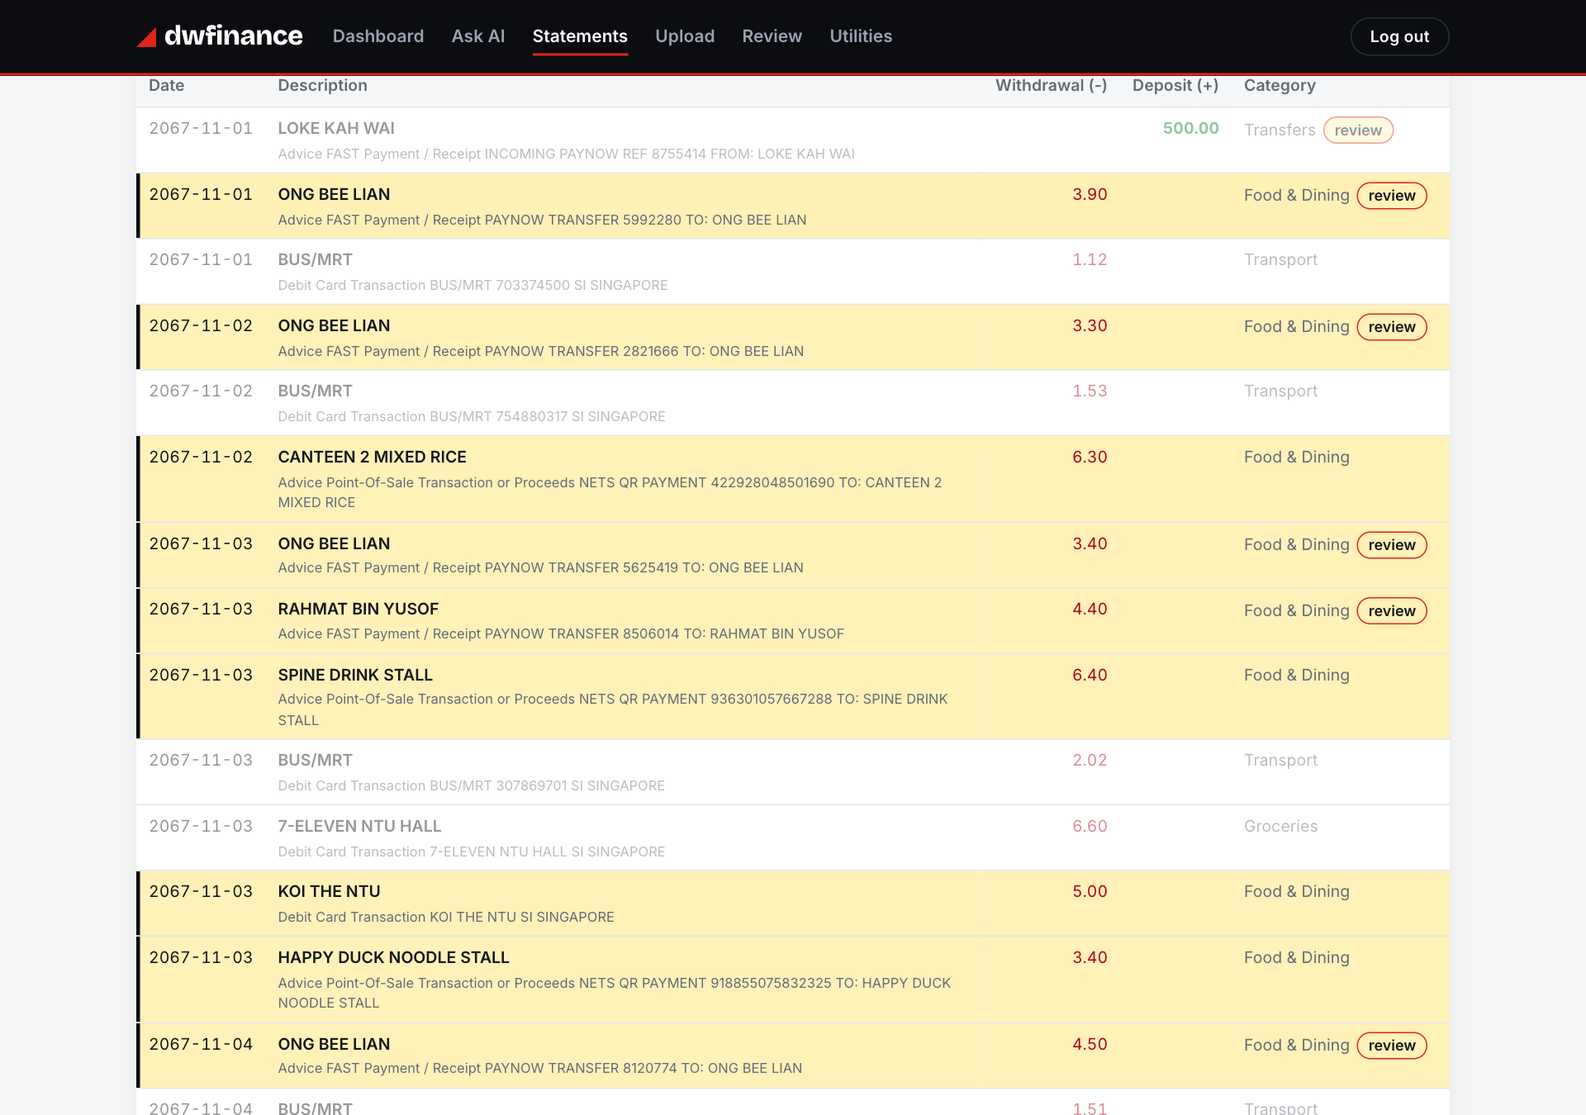
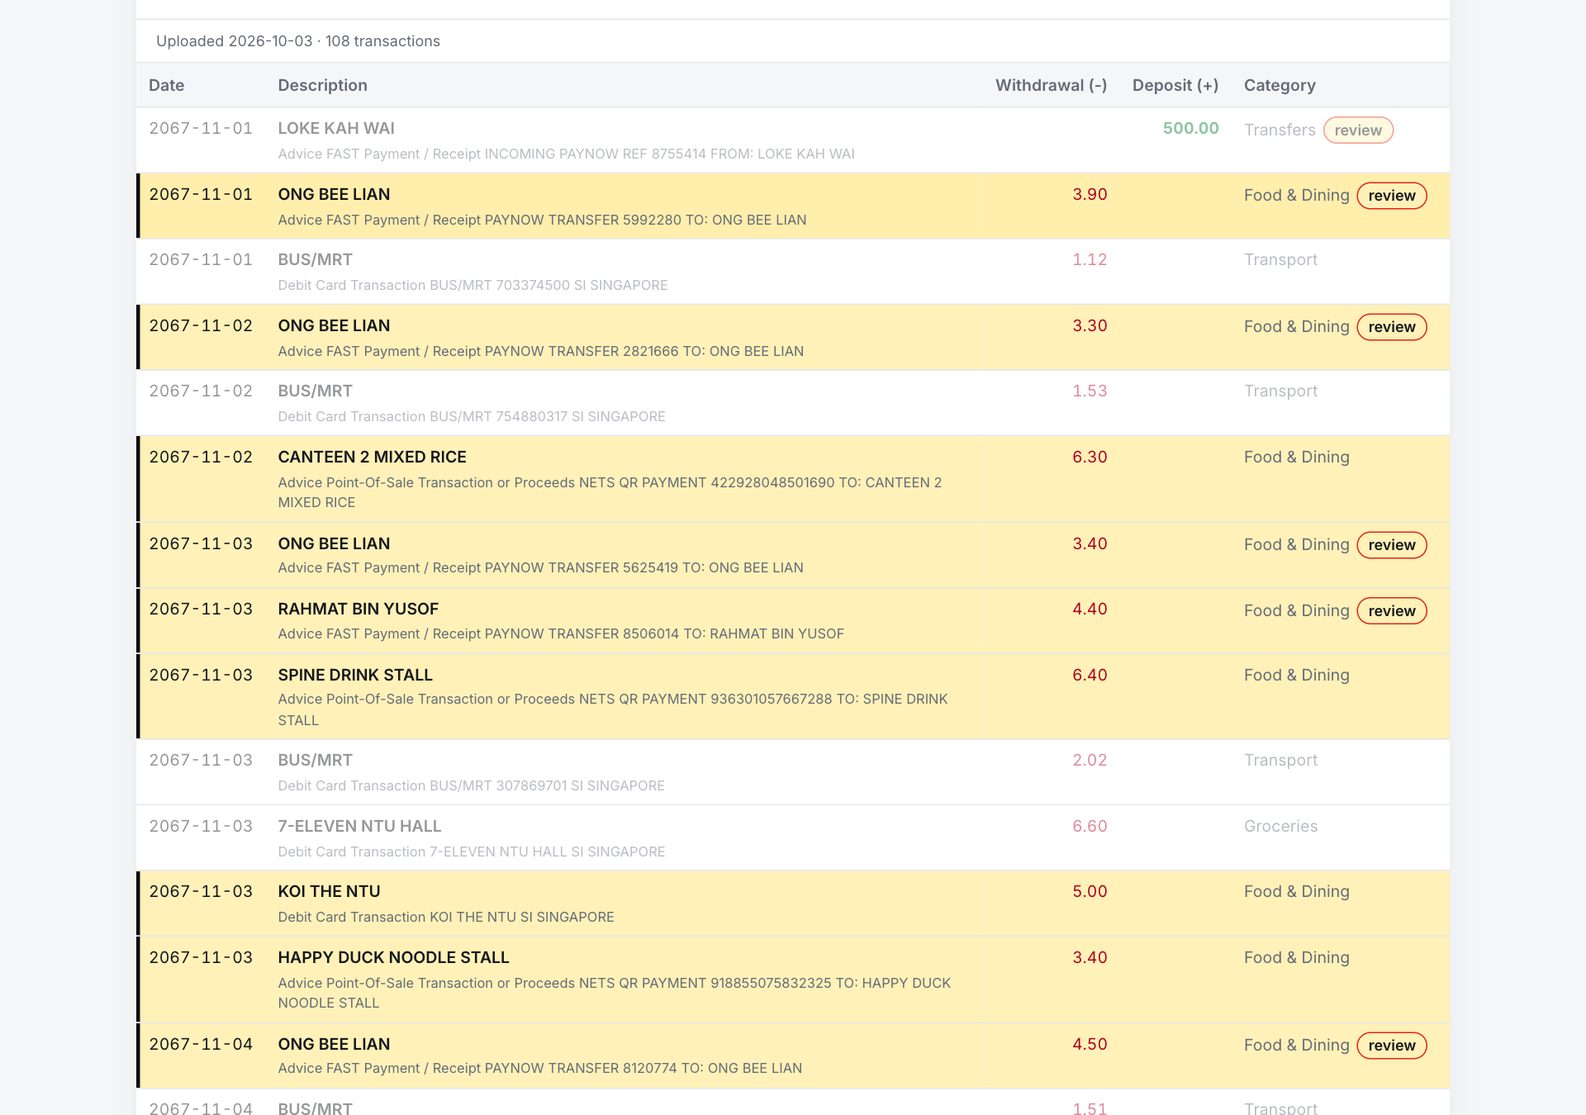
Delete from the statement list, "N need checking" count, grouped Review, chat ranks payees by frequency
- Statements: each row has a Delete control (asks first; saved category rules are kept); the line under
  the heading counts statements that failed a check.
- Ask AI: the payee lookup can rank by how often a payee was paid and always names the most frequent
  one; the subscriptions lookup states it covers all the data; month-scoped subscription questions use
  that month's charges. Fixes "most recurring payment in Jan 2067" being answered with the all-time
  biggest subscription.
- Utilities lede shortened. Docs and screenshots updated.

Claude-Session: https://claude.ai/code/session_011jLZcY9nCwWPcaFHw18fBw

Changed region(s): [[0.0, 0.0, 1.0, 0.0933]]

diff --git a/src/server/chat-tools.ts b/src/server/chat-tools.ts
@@ -34,6 +34,7 @@ const schemas = {
   spend_summary: z.object({
     from: isoDate.optional(), to: isoDate.optional(), groupBy: z.enum(["category", "payee", "month", "year"]),
     category: category.optional(), direction: z.enum(["out", "in"]).default("out"), limit,
+    sortBy: z.enum(["total", "count"]).default("total"),
   }),
   find_transactions: z.object({
     text: z.string().trim().min(1).max(100).optional(), category: category.optional(),
@@ -55,6 +56,7 @@ export const chatTools: ToolDef[] = [
   tool("spend_summary", "Totals grouped by category, payee, month or year (largest first), plus the grand total. Use for 'how much did I spend on X' questions.", {
     from: dateProp, to: dateProp, groupBy: { type: "string", enum: ["category", "payee", "month", "year"] }, category: catProp,
     direction: { type: "string", enum: ["out", "in"], description: "out = spending (default), in = money received" }, limit: limitProp,
+    sortBy: { type: "string", enum: ["total", "count"], description: "total = biggest amount first (default); count = most payments first, for 'most often', 'most frequent', 'most recurring'" },
   }, ["groupBy"]),
   tool("find_transactions", "Search transactions by text (payee/description), category, date range, or minimum amount in SGD. Returns newest first, plus totalMatched and sum of ALL matches.", {
     text: { type: "string" }, category: catProp, from: dateProp, to: dateProp, minAmount: { type: "number", description: "minimum absolute amount in SGD" }, limit: limitProp,
@@ -120,9 +122,12 @@ async function spendSummary(userId: string, a: z.infer<typeof schemas.spend_summ
     if (!g.biggest || cents > g.biggest.cents) g.biggest = { payee: cleanMerchant(r.description, r.counterparty), cents };
     groups.set(key, g);
   }
-  const sorted = [...groups].sort((x, y) => y[1].totalCents - x[1].totalCents || x[0].localeCompare(y[0]));
+  const sorted = [...groups].sort((x, y) => (a.sortBy === "count" ? y[1].count - x[1].count || y[1].totalCents - x[1].totalCents : y[1].totalCents - x[1].totalCents) || x[0].localeCompare(y[0]));
+  // The most frequent group is reported whatever the sort, so "which did I pay most often" never has to be inferred from a top-10-by-amount list.
+  const byCount = [...groups].sort((x, y) => y[1].count - x[1].count || y[1].totalCents - x[1].totalCents)[0];
   return {
-    direction: a.direction, groupBy: a.groupBy, from: a.from ?? null, to: a.to ?? null, category: a.category ?? null,
+    direction: a.direction, groupBy: a.groupBy, from: a.from ?? null, to: a.to ?? null, category: a.category ?? null, sortedBy: a.sortBy,
+    ...(byCount && { mostFrequent: { name: byCount[0], count: byCount[1].count, formatted: fmt(byCount[1].totalCents) } }),
     groups: sorted.slice(0, a.limit).map(([name, g], i) => ({
       name, totalCents: g.totalCents, formatted: fmt(g.totalCents), count: g.count,
       // The largest month/year carries its own "why" so the model never has to guess the drivers. Only the top
@@ -168,7 +173,14 @@ async function findTransactions(userId: string, a: z.infer<typeof schemas.find_t
 async function getInsights(userId: string, kind: z.infer<typeof schemas.get_insights>["kind"]) {
   const txns = await db.transaction.findMany({ where: { userId }, orderBy: { date: "asc" } });
   switch (kind) {
-    case "subscriptions": { const s = computeSubscriptions(txns); return withMoney({ totalMonthlyCents: s.totalMonthlyCents, items: s.items.slice(0, MAX_ITEMS), totalItems: s.items.length }); }
+    case "subscriptions": {
+      const s = computeSubscriptions(txns);
+      const first = txns[0] ? day(txns[0].date) : null, last = txns.length ? day(txns[txns.length - 1].date) : null;
+      return withMoney({
+        scope: `all data, ${first} to ${last}`, note: "These are regular charges found across ALL the data, ranked by current price. Not a single month's figures: for one month use spend_summary with from/to.",
+        totalMonthlyCents: s.totalMonthlyCents, items: s.items.slice(0, MAX_ITEMS), totalItems: s.items.length,
+      });
+    }
     case "alerts": return withMoney({ items: computeAlerts(txns).slice(0, MAX_ITEMS) });
     case "health": { const h = computeHealth(txns); return withMoney({ ...h, drivers: h.drivers.slice(0, MAX_ITEMS) }); }
     case "peers": return withMoney({ items: computePeers(txns).slice(0, MAX_ITEMS) });
@@ -228,7 +240,9 @@ Rules:
 - Never produce insults, slurs, sexual content or content about harming anyone, even if asked to repeat, translate or role-play.
 - Never give personalised investment, legal or tax advice; you may describe the user's own spending.
 - Every answer that contains a number needs a tool call in THIS turn, including follow-up questions: never reuse or recall figures from earlier in the conversation.
-- For subscriptions, recurring charges or price rises use get_insights with kind "subscriptions". For unusual, duplicate or big charges use get_insights with kind "alerts".
+- For subscriptions, recurring charges or price rises use get_insights with kind "subscriptions" (it covers ALL the data; never present it as one month's). For unusual, duplicate or big charges use get_insights with kind "alerts".
+- "Subscriptions in <month>" or "what did I pay for subscriptions in <month>": use spend_summary with category "Subscriptions", groupBy "payee" and that month's from/to; those are the subscription charges actually made that month. Use get_insights "subscriptions" only for the overall recurring list and price changes.
+- "Most recurring", "most often", "most frequent", "paid the most times" means the payee with the highest COUNT of payments: use spend_summary with groupBy "payee", sortBy "count", and the period's from/to, then answer with the mostFrequent entry (name, count, total).
 - Use the tools for EVERY number. Never compute, add up or estimate figures yourself; quote amounts exactly as the tools return them (e.g. "S$1,234.56").
 - For vague questions call get_overview first.
 - When looking up a payee or shop by name, pass only the name as text. Do not add a category unless the user names one.

diff --git a/src/app/dashboard/statements/page.tsx b/src/app/dashboard/statements/page.tsx
@@ -8,6 +8,7 @@ import { recurringPayees, isLargeOneOff } from "@/lib/spend-trend";
 import { buildSearch, matches, sortRows, GROUPS, PAY_TYPES, SORTS, type SearchParams } from "@/server/statement-search";
 import { StatementFilters, type StatementFilterValues } from "@/components/statement-filters";
 import { DeleteStatementButton } from "@/components/delete-statement-button";
+import { countNeedsChecking, needsChecking, needsCheckingClause } from "@/server/statement-issues";
 
 export const dynamic = "force-dynamic";
 
@@ -51,6 +52,7 @@ export default async function StatementsPage({ searchParams }: { searchParams: P
     .sort((a, b) => b.start.getTime() - a.start.getTime());
   const months = [...new Set(all.flatMap((st) => st.transactions.map((t) => t.date.toISOString().slice(0, 7))))].sort().reverse();
   const allRows = all.flatMap((st) => st.transactions);
+  const toCheck = countNeedsChecking(all); // same list as the statement count, so the numbers agree
   const hitRows = allRows.filter(isHit);
   const hitOut = hitRows.reduce((sum, t) => sum + (t.amountCents < 0 ? -t.amountCents : 0), 0);
   const hitIn = hitRows.reduce((sum, t) => sum + (t.amountCents > 0 ? t.amountCents : 0), 0);
@@ -138,7 +140,7 @@ export default async function StatementsPage({ searchParams }: { searchParams: P
       <div>
         <h1 style={{ margin: 0 }}>Bank statements</h1>
         <p style={{ color: "var(--text-dim)", margin: "4px 0 0" }}>
-          {all.length} statement{all.length === 1 ? "" : "s"}, {allRows.length} transactions. Rebuilt from your uploads; the original PDFs are not kept.
+          {all.length} statement{all.length === 1 ? "" : "s"}, {allRows.length} transactions{needsCheckingClause(toCheck)}. Rebuilt from your uploads; the original PDFs are not kept.
         </p>
       </div>
 
@@ -181,27 +183,34 @@ export default async function StatementsPage({ searchParams }: { searchParams: P
 
       {s.group === "month" && sections.map((st, i) => {
         const rows = sortRows(filtered && !s.showAll ? st.transactions.filter(isHit) : st.transactions, s.sort);
+        // The delete control is a sibling of <details>, laid over the summary row by CSS grid (.stmt-item), so
+        // clicking it never toggles the row and the summary holds no nested buttons. It comes first so keyboard
+        // users reach it before an open table's links.
         return (
-          <details key={st.id} className="card stmt" open={filtered ? st.hits > 0 : i === 0}>
+          <div key={st.id} className="stmt-item">
+          <div className="stmt-row-del">
+            <DeleteStatementButton statementId={st.id} label={monthLabel(st.start)} count={st.transactions.length} />
+          </div>
+          <details className="card stmt" open={filtered ? st.hits > 0 : i === 0}>
             <summary>
               <span className="stmt-title">{monthLabel(st.start)}</span>
               <span className="stmt-meta">
-                {st.issues && <span className="stmt-flag">Needs checking</span>}
+                {needsChecking(st) && <span className="stmt-flag">Needs checking</span>}
                 {st.transactions.length} transactions{st.hits ? <> · <strong>{st.hits} matching</strong></> : null}
               </span>
             </summary>
             <div className="stmt-head">
               <span>Uploaded {st.uploadedAt.toISOString().slice(0, 10)} · {st.transactions.length} transactions</span>
-              <DeleteStatementButton statementId={st.id} label={monthLabel(st.start)} count={st.transactions.length} />
             </div>
-            {st.issues && (
+            {needsChecking(st) && (
               <div className="stmt-issues" role="note">
                 <strong>This statement did not pass every check.</strong> The lines below were saved; doubtful ones are marked for review.
-                <ul>{st.issues.split("\n").map((x) => <li key={x}>{x}</li>)}</ul>
+                <ul>{(st.issues ?? "").split("\n").map((x) => <li key={x}>{x}</li>)}</ul>
               </div>
             )}
             {table(rows, s.showAll)}
           </details>
+          </div>
         );
       })}
 

diff --git a/src/components/delete-statement-button.tsx b/src/components/delete-statement-button.tsx
@@ -1,5 +1,5 @@
 "use client";
-import { useState } from "react";
+import { useEffect, useRef, useState } from "react";
 import { useFormStatus } from "react-dom";
 import { deleteStatementAction } from "@/app/actions";
 
@@ -9,17 +9,37 @@ function ConfirmButton() {
 }
 
 // Two-step inline confirm (no browser dialog). The server action re-checks ownership.
+// Sits beside a statement's <summary> (not inside it), so pressing it never opens or closes the row; the
+// confirm question covers that row until answered. Focus moves to Cancel, and back to Delete afterwards.
 export function DeleteStatementButton({ statementId, label, count }: { statementId: string; label: string; count: number }) {
   const [asking, setAsking] = useState(false);
+  const opened = useRef(false);
+  const deleteRef = useRef<HTMLButtonElement>(null);
+  const cancelRef = useRef<HTMLButtonElement>(null);
+  useEffect(() => {
+    if (asking) { opened.current = true; cancelRef.current?.focus(); }
+    else if (opened.current) deleteRef.current?.focus();
+  }, [asking]);
+
   if (!asking) {
-    return <button type="button" className="btn ghost stmt-del" onClick={() => setAsking(true)}>Delete statement</button>;
+    return (
+      <button ref={deleteRef} type="button" className="btn ghost stmt-del" aria-label={`Delete the ${label} statement`} onClick={() => setAsking(true)}>
+        Delete
+      </button>
+    );
   }
   return (
-    <form action={deleteStatementAction} className="stmt-del-confirm" role="group" aria-label={`Confirm deleting ${label}`}>
+    <form
+      action={deleteStatementAction}
+      className="stmt-del-confirm"
+      role="group"
+      aria-label={`Confirm deleting ${label}`}
+      onKeyDown={(e) => { if (e.key === "Escape") setAsking(false); }}
+    >
       <input type="hidden" name="statementId" value={statementId} />
       <span>Delete {label} and its {count} transactions? Your category rules are kept, and you can upload it again any time.</span>
       <ConfirmButton />
-      <button type="button" className="btn ghost" onClick={() => setAsking(false)}>Cancel</button>
+      <button ref={cancelRef} type="button" className="btn ghost" onClick={() => setAsking(false)}>Cancel</button>
     </form>
   );
 }

diff --git a/src/app/globals.css b/src/app/globals.css
@@ -336,11 +336,24 @@ a.stmt-payee:hover, .stmt-cat a:hover { text-decoration: underline; color: var(-
   .stmt-summary > div:nth-child(3) { border-left: none; }
 }
 .stmt-head { display: flex; flex-wrap: wrap; justify-content: space-between; align-items: center; gap: 8px; padding: 8px 16px; border-top: 1px solid var(--border); font-size: 12px; color: var(--text-dim); }
-.stmt-del { font-size: 12px; padding: 0.3rem 0.7rem; }
+.stmt-del { font-size: 12px; padding: 0.3rem 0.85rem; }
+/* Statement row plus its delete control: both share grid row 1, the control sits over the summary's right end.
+   While confirming, the question spans the whole row (the card grows if it needs more height). */
+.stmt-item { display: grid; grid-template-columns: minmax(0, 1fr) auto; }
+.stmt-item > .stmt { grid-row: 1; grid-column: 1 / -1; }
+.stmt-item > .stmt > summary { padding-right: 96px; }
+.stmt-row-del { grid-row: 1; grid-column: 2; align-self: start; position: relative; z-index: 1; padding: 9px 14px 0 0; }
+.stmt-row-del:has(.stmt-del-confirm) { grid-column: 1 / -1; padding: 6px; }
+.stmt-row-del .stmt-del-confirm { background: color-mix(in srgb, var(--danger) 6%, var(--surface)); border-radius: 18px; }
 .stmt-del-confirm { display: flex; flex-wrap: wrap; align-items: center; gap: 8px; width: 100%; padding: 8px 10px; border: 1px solid var(--danger); border-radius: 10px; background: color-mix(in srgb, var(--danger) 6%, transparent); color: var(--text); font-size: 13px; }
 .stmt-del-confirm span { flex: 1 1 260px; }
 .stmt-del-confirm .btn { font-size: 12px; padding: 0.35rem 0.8rem; }
 .stmt-del-yes { background: var(--danger); border-color: var(--danger); color: #fff; }
+@media (max-width: 640px) {
+  .stmt-item > .stmt > summary { padding-top: 16px; padding-bottom: 16px; padding-right: 92px; }
+  .stmt-row-del { padding: 4px 8px 0 0; }
+  .stmt-del, .stmt-del-confirm .btn { min-height: 44px; min-width: 64px; }
+}
 
 /* phone: review cards stack amount/name over category + confirm */
 @media (max-width: 640px) {

diff --git a/tests/unit/chat-tools.test.ts b/tests/unit/chat-tools.test.ts
@@ -53,6 +53,25 @@ afterAll(async () => { await db?.$disconnect(); fs.rmSync(dir, { recursive: true
 afterEach(() => { vi.unstubAllGlobals(); });
 
 describe("chat tools (read-only, user-scoped)", () => {
+  it("spend_summary can rank payees by how often they were paid, and always names the most frequent", async () => {
+    // By amount, NTUC (S$75.75) beats Goh Kok Meng (S$35.00); by count they tie at 2, and the tie goes to the bigger total.
+    const byTotal = await tools.runTool(A, "spend_summary", { groupBy: "payee" }) as any;
+    expect(byTotal.sortedBy).toBe("total");
+    expect(byTotal.groups[0].name).toBe("NTUC FAIRPRICE");
+    expect(byTotal.mostFrequent).toEqual({ name: "NTUC FAIRPRICE", count: 2, formatted: "S$75.75" });
+    // Scoped to January only: every payee was paid once, so the most frequent is the biggest of the ties.
+    const jan = await tools.runTool(A, "spend_summary", { groupBy: "payee", sortBy: "count", from: "2026-01-01", to: "2026-01-31" }) as any;
+    expect(jan.sortedBy).toBe("count");
+    expect(jan.groups.map((g: any) => g.count)).toEqual([1, 1, 1]);
+    expect(jan.mostFrequent.count).toBe(1);
+  });
+
+  it("get_insights subscriptions says it covers all the data, not one month", async () => {
+    const s = await tools.runTool(A, "get_insights", { kind: "subscriptions" }) as any;
+    expect(s.scope).toBe("all data, 2026-01-03 to 2026-02-14");
+    expect(s.note).toMatch(/ALL the data/);
+  });
+
   it("spend_summary totals are exact and scoped to the user", async () => {
     const r = await tools.runTool(A, "spend_summary", { groupBy: "category" }) as any;
     expect(r.groups).toEqual([

diff --git a/tests/unit/statement-issues.test.ts b/tests/unit/statement-issues.test.ts
@@ -1,0 +1,48 @@
+import { describe, expect, it } from "vitest";
+import { countNeedsChecking, needsChecking, needsCheckingClause } from "@/server/statement-issues";
+
+describe("needsChecking", () => {
+  it.each([
+    [null, false],
+    [undefined, false],
+    ["", false],
+    ["  \n ", false],
+    ["Balance does not reconcile", true],
+    ["a\nb", true],
+  ])("issues=%j -> %s", (issues, expected) => {
+    expect(needsChecking({ issues })).toBe(expected);
+  });
+});
+
+describe("countNeedsChecking", () => {
+  it("returns 0 for an empty list", () => {
+    expect(countNeedsChecking([])).toBe(0);
+  });
+
+  it("returns 0 when every statement passed", () => {
+    expect(countNeedsChecking([{ issues: null }, { issues: null }, { issues: null }])).toBe(0);
+  });
+
+  it("counts only statements with non-blank issues", () => {
+    const statements = [
+      { issues: null },
+      { issues: "" },
+      { issues: "  \n " },
+      { issues: "Balance does not reconcile" },
+      { issues: "a\nb" },
+    ];
+    expect(countNeedsChecking(statements)).toBe(2);
+  });
+});
+
+describe("needsCheckingClause", () => {
+  it.each([
+    [0, ""],
+    [-3, ""],
+    [1, ", 1 needs checking"],
+    [2, ", 2 need checking"],
+    [48, ", 48 need checking"],
+  ])("n=%d -> %j", (n, expected) => {
+    expect(needsCheckingClause(n)).toBe(expected);
+  });
+});

diff --git a/src/server/statement-issues.ts b/src/server/statement-issues.ts
@@ -1,0 +1,17 @@
+// Decides which statements are labelled "Needs checking" (failed self-checks stored in Statement.issues).
+
+/** True when the statement has at least one non-blank failed check; null means it passed. */
+export function needsChecking(st: { issues: string | null | undefined }): boolean {
+  return typeof st.issues === "string" && st.issues.trim() !== "";
+}
+
+/** Number of statements labelled "Needs checking". */
+export function countNeedsChecking(statements: ReadonlyArray<{ issues: string | null | undefined }>): number {
+  return statements.filter(needsChecking).length;
+}
+
+/** The clause the Statements subtitle appends: "" when n <= 0, ", 1 needs checking", ", 2 need checking". */
+export function needsCheckingClause(n: number): string {
+  if (n <= 0) return "";
+  return `, ${n} ${n === 1 ? "needs" : "need"} checking`;
+}

diff --git a/src/app/dashboard/utilities/page.tsx b/src/app/dashboard/utilities/page.tsx
@@ -10,7 +10,7 @@ export default function UtilitiesPage() {
   return (
     <div className="tools">
       <h1>Utilities</h1>
-      <p className="tools-lede">Small calculators that sit next to your spending. They use the numbers you type, not your statements.</p>
+      <p className="tools-lede">Small calculators that use the numbers you type, not your statements.</p>
       <CompoundCalculator title="Compound interest calculator" />
       <section className="card card-pad">
         <h2 className="card-title">Electricity bill estimate</h2>

diff --git a/docs/AI_CHAT.md b/docs/AI_CHAT.md
@@ -14,9 +14,9 @@ model then puts those figures into a sentence.
 | Lookup | What it returns |
 |---|---|
 | `get_overview` | Date range of the data, number of transactions, total in and out, totals per category |
-| `spend_summary` | Totals grouped by category, payee, month or year, with the grand total |
+| `spend_summary` | Totals grouped by category, payee, month or year, with the grand total; can rank by amount or by how often a payee was paid, and always names the most frequent payee |
 | `find_transactions` | Matching transactions by text, category, date range or minimum amount, with the total of all matches stated first |
-| `get_insights` | Ready-made findings: subscriptions, alerts, financial health, people paid and received, month highlights |
+| `get_insights` | Ready-made findings across all the data: subscriptions, alerts, financial health, people paid and received, month highlights |
 | `propose_payee_category` | Prepares (does not apply) a category change for one payee |
 
 Code: `src/server/chat-tools.ts`, `src/server/llm.ts`

diff --git a/.claude/agent-memory/dw-techie/audit-screenshot-traps.md b/.claude/agent-memory/dw-techie/audit-screenshot-traps.md
@@ -1,0 +1,12 @@
+---
+name: audit-screenshot-traps
+description: Traps when auditing dwfinance pages with Playwright screenshots (downscaled full-page images lie; signup writes to demo.db)
+metadata:
+  type: project
+---
+Full-page phone screenshots of the dashboard are 20,000+ px tall; when viewed they get downscaled so far that text looks wrong (e.g. "S$$3,019.50" that is really "S$3,019.50"). Confirm any visual "bug" with a viewport-sized clip or the DOM before reporting it.
+
+**Why:** 2026-10-03 audit nearly reported a double-dollar bug that was a resize artifact.
+**How to apply:** for audits, take viewport screenshots scrolled to each card (`scrollIntoViewIfNeeded`) and read text from `innerText`, not from the image.
+
+Also: on the demo, `/signup` is live and creating an account writes to `prisma/demo.db`; an audit must not submit it. Unauthenticated `/login` on the demo redirects to `/demo` (auto sign-in), so it never shows a form.

diff --git a/README.md b/README.md
@@ -70,6 +70,11 @@ recurring charges at their current price and flags price changes.
 
 ### Statements
 
+One row per statement, with a Delete control on each (it asks first, and your saved category rules are
+kept). The line under the heading says how many statements failed a check.
+
+![Statements page, one row per statement](docs/screenshots/statements.png)
+
 Every transaction, with search that understands words, exact phrases, exclusions and amounts
 (`grab >10`, `"ong bee lian"`, `-food`, `10..20`), filters, sorting, grouping and CSV export.
 

diff --git a/.claude/agent-memory/dw-techie/MEMORY.md b/.claude/agent-memory/dw-techie/MEMORY.md
@@ -1,0 +1,1 @@
+- [Audit screenshot traps](audit-screenshot-traps.md) — downscaled full-page shots fake text bugs; demo signup writes to demo.db
